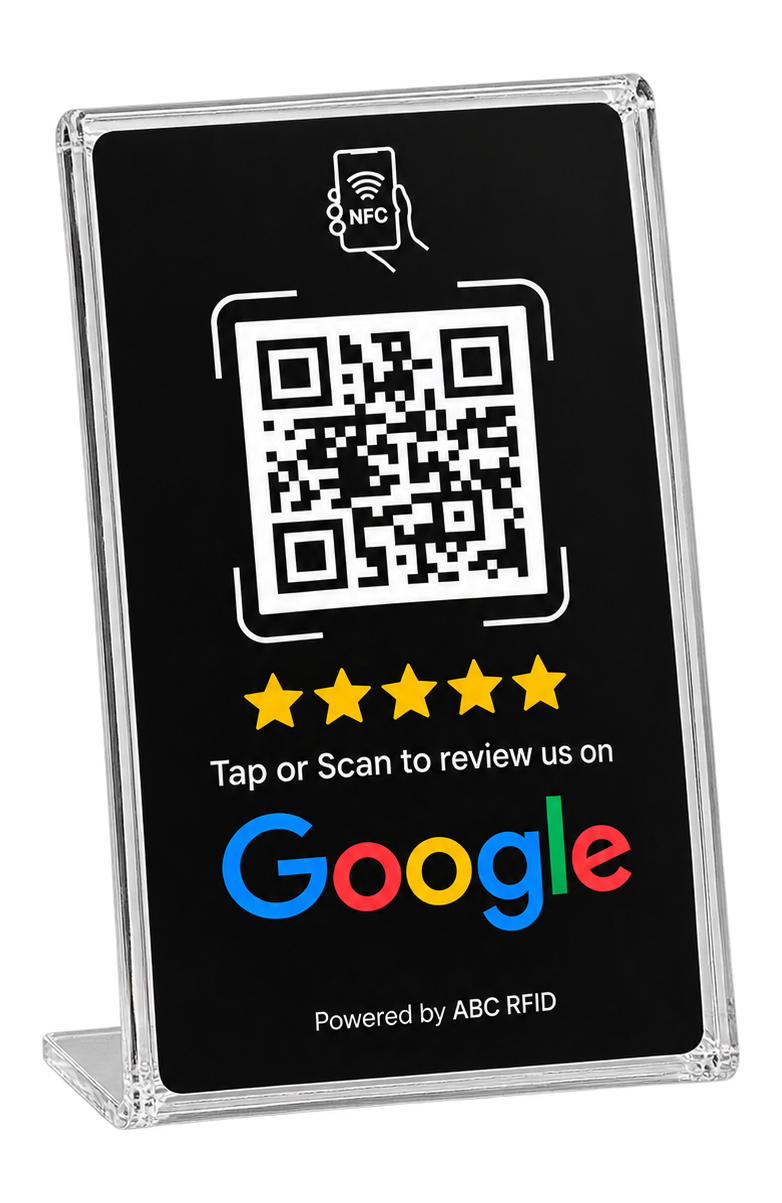
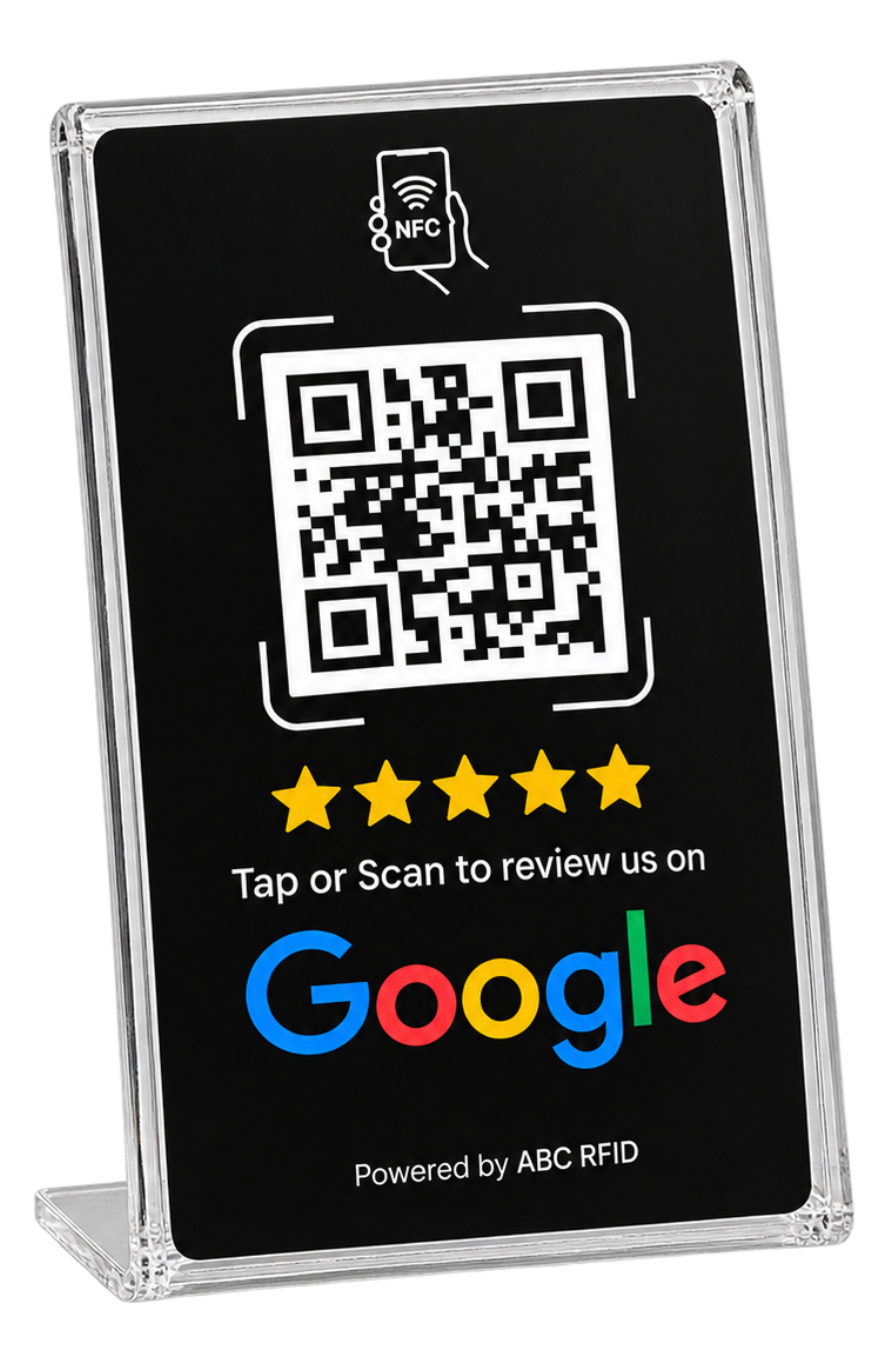
Popup: prava ispravka velicine manje kartice (panel, ne ceo providni stalak, bio razlog razlike)

Changed region(s): [[0.0307, 0.0308, 0.9821, 0.9842]]

diff --git a/src/lib/proizvod.ts b/src/lib/proizvod.ts
@@ -19,20 +19,26 @@ export function slikaProizvoda(velicina: Velicina, boja: Boja): string {
 }
 
 // CSS aspect-ratio zapis (širina/visina) — različit razmer fotografije za
-// veći (848/1401) i manji (0.65) stalak, prosleđuje se Kartica3D-u.
-// kartica_bela.png/kartica_crna.png su 20.09.2026. opsečene na sadržaj i
-// podložene tako da OBE dele TAČNO isti razmer 0.65 (prvobitno 1024×1536 i
-// 1122×1402 — vidljivo različite margine, crna kartica je delovala manje
-// nego bela unutar iste kutije); sad se ne oslanja na "skoro jednako",
-// stvarni fajlovi (860×1323, 782×1203) imaju identičan razmer.
+// veći (848/1401) i manji (872/1355) stalak, prosleđuje se Kartica3D-u.
+// kartica_bela.png/kartica_crna.png su 22.09.2026. ponovo obrađene — prvi
+// pokušaj (samo poravnata providna margina oko cele "silhuete" providnog
+// stalka) NIJE bio dovoljan: sama KARTICA (beli/crni panel sa QR kodom) je
+// na originalnim fotografijama zauzimala različit procenat kadra (bela
+// ~73% širine, crna ~57%), jer providni stalak oko crne kartice zauzima
+// vidljivo više prostora na toj fotografiji. Rešenje: crna slika je
+// UVEĆANA (×1.1755) tako da njen panel (širina) bude piksel-jednak
+// belininom, pa su OBE ponovo centrirane/opsečene oko centra panela na
+// zajedničko platno — sad su panel I platno identične veličine/razmera za
+// obe boje (872×1355 oba fajla), a ceo providni stalak i dalje staje u
+// kadar bez sečenja.
 export function razmerProizvoda(velicina: Velicina): string {
-  return velicina === "manji" ? "0.65" : "848 / 1401";
+  return velicina === "manji" ? "872 / 1355" : "848 / 1401";
 }
 
 // Isti broj kao string (za obrnut izračun kvadratne širine oko mobilne
 // slike — vidi DodajUKorpuPopup.tsx).
 export function razmerProizvodaBroj(velicina: Velicina): number {
-  return velicina === "manji" ? 0.65 : 848 / 1401;
+  return velicina === "manji" ? 872 / 1355 : 848 / 1401;
 }
 
 export function nazivProizvoda(velicina: Velicina): string {
